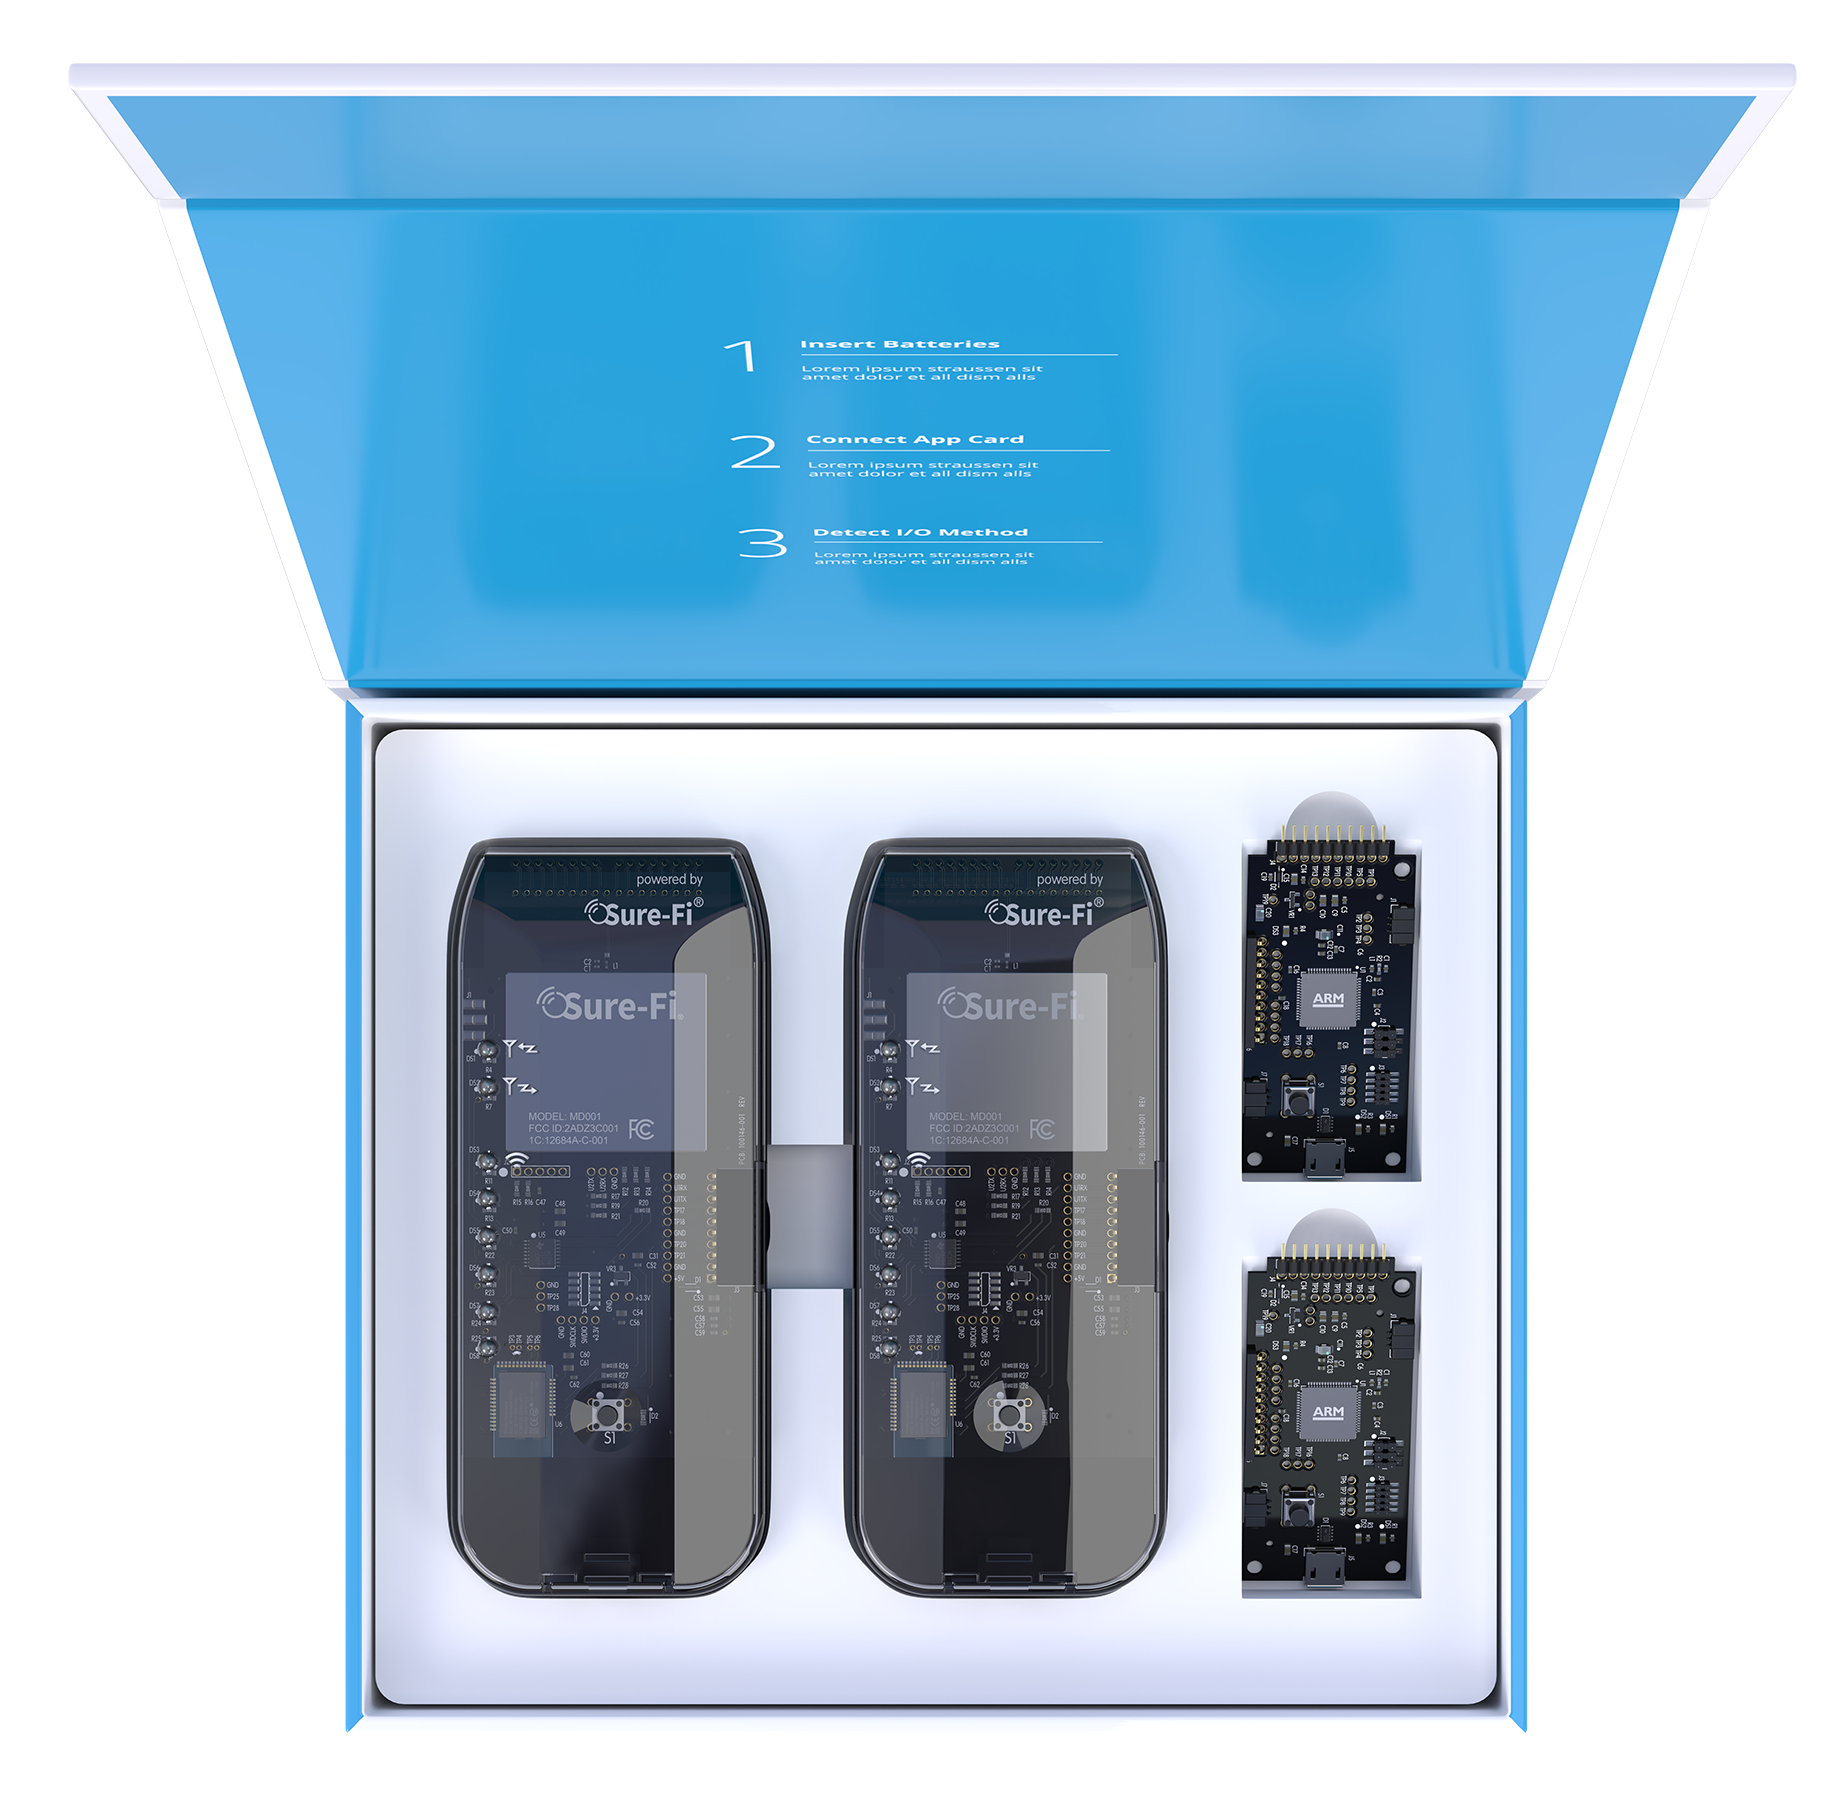
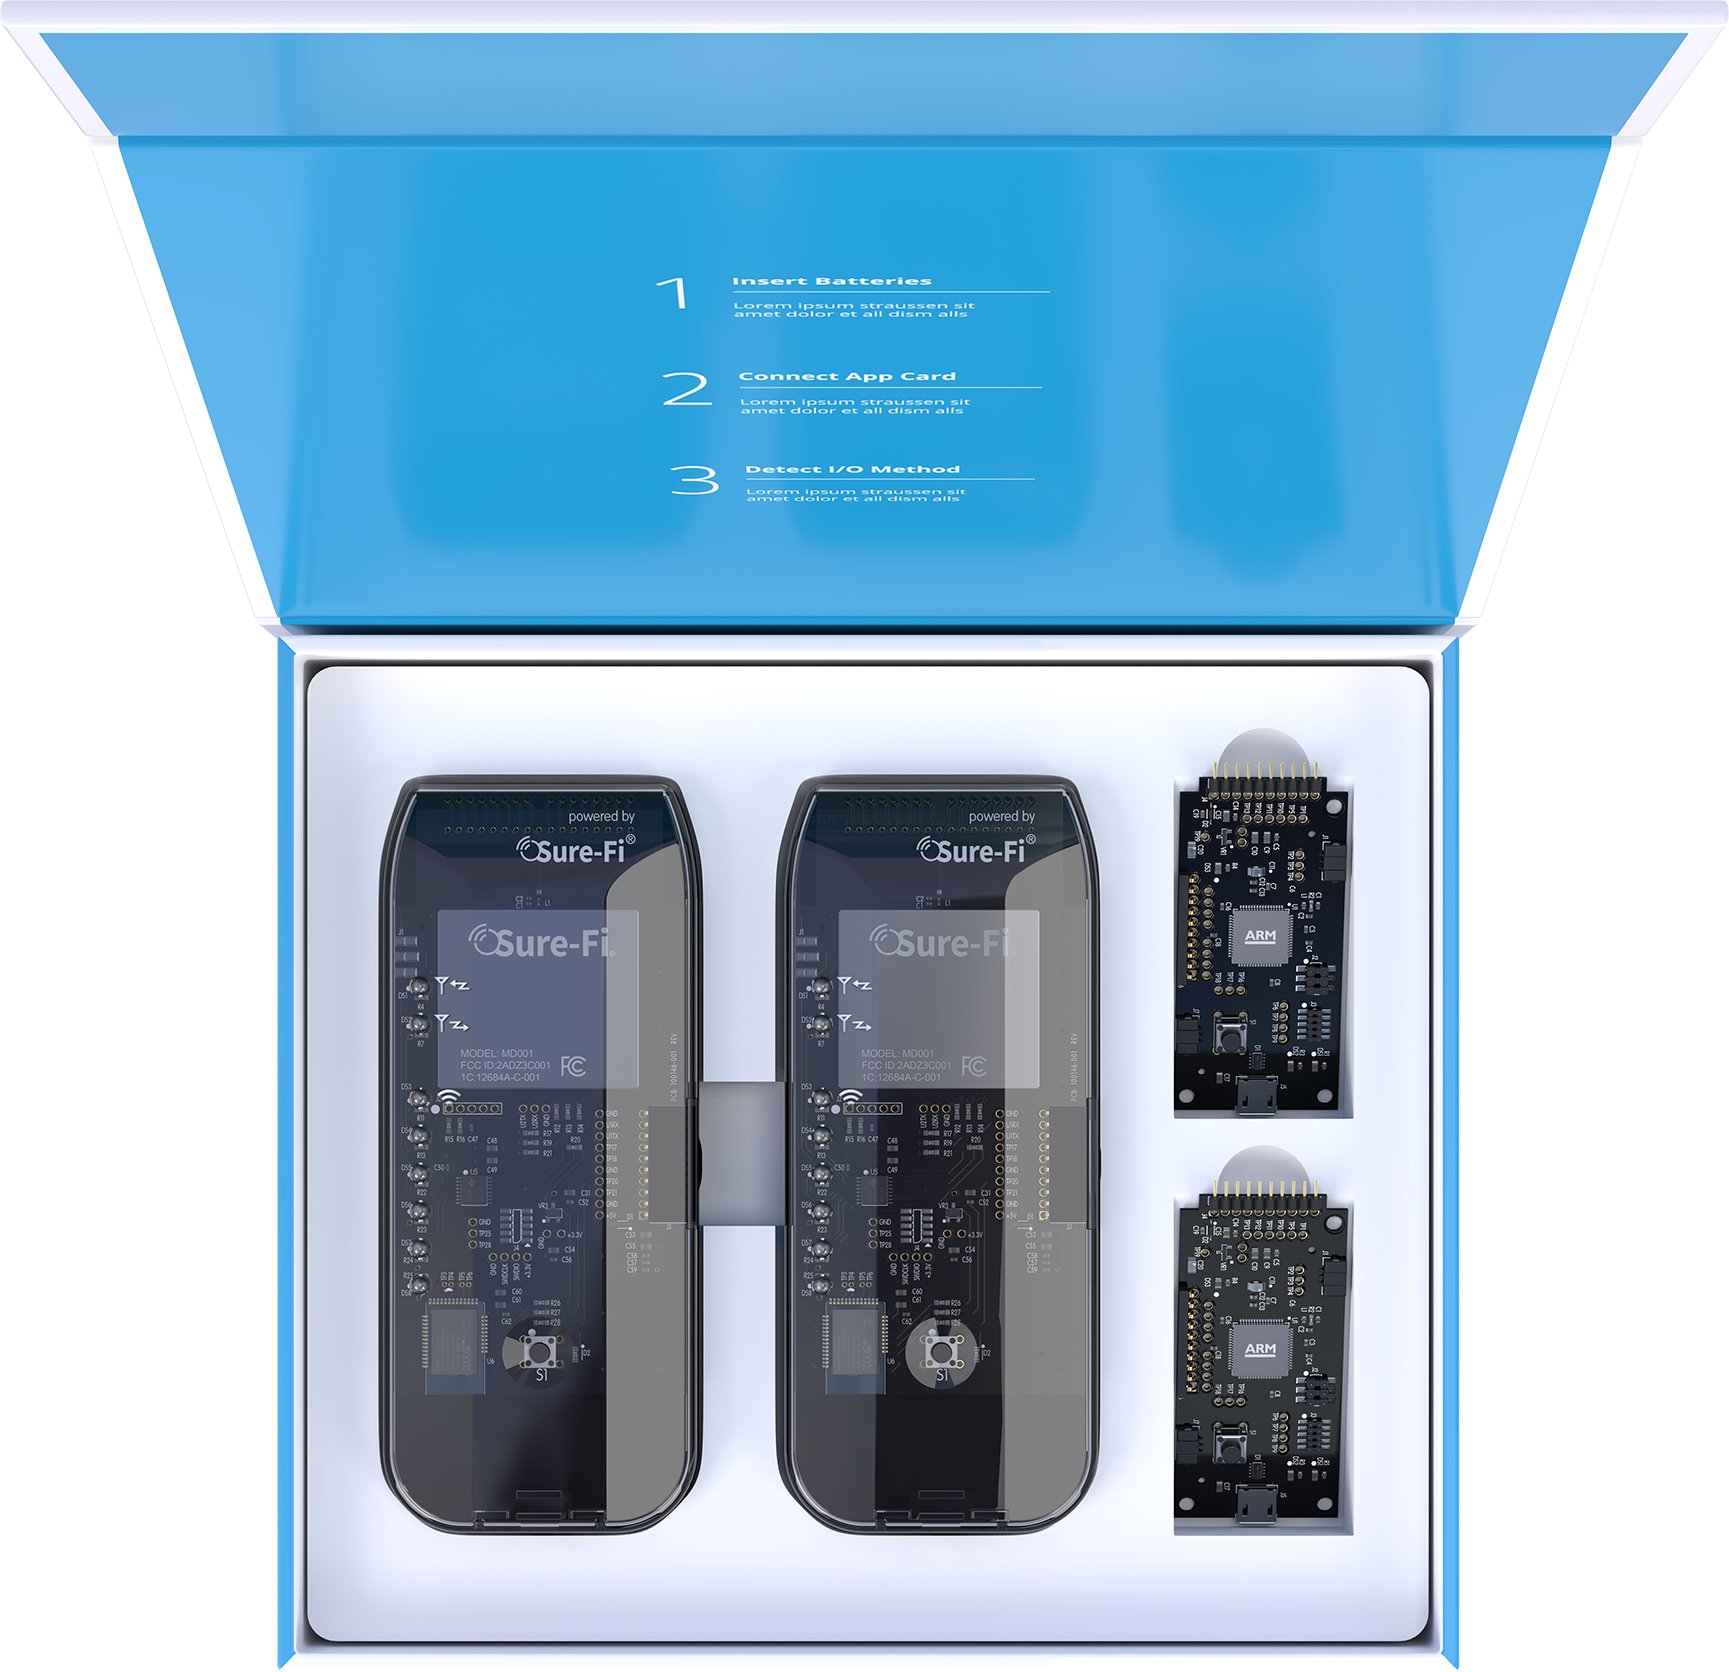
change on a image

diff --git a/index.html b/index.html
@@ -195,7 +195,7 @@
                     Add-on Development Boards and begin integrating Bunker Busting 900 MHz into your very own applications.
                   </p>
                   <a href="development-kit.html">
-                    <img src="images/open_box_image_50.png" style="width: 100%;" class="sr-contact" >  
+                    <img src="images/open_box_image_70.png" style="width: 100%;" class="sr-contact" >  
                   </a>
                 </div>
               </div>
